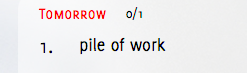
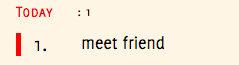
updated tutorial pics and position, fixed caret position for autocomplete

diff --git a/CataList/src/ui/Application/Stylesheets/MainGUI.css b/CataList/src/ui/Application/Stylesheets/MainGUI.css
@@ -130,22 +130,22 @@
 }
 
 #tabPending .tab-label {
-	-fx-font-family: delicious-smallcaps;
+	-fx-font-family: delicious-bold;
 	-fx-text-fill: brown;    
 }
 
 #tabOverdue .tab-label, #tabCompleted .tab-label {
-	-fx-font-family: delicious-smallcaps;
+	-fx-font-family: delicious-bold;
 	-fx-text-fill: grey;    
 }
 
 #tabToday .tab-label, #tabTomorrow .tab-label {
-	-fx-font-family: delicious-smallcaps;
+	-fx-font-family: delicious-bold;
 	-fx-text-fill: red;    
 }
 
 #tabOthers .tab-label, #tabFloat .tab-label {
-	-fx-font-family: delicious-smallcaps;
+	-fx-font-family: delicious-bold;
 	-fx-text-fill: blue;    
 }
 
@@ -281,8 +281,8 @@
 }
 
 #tutorialContainer {
-	-fx-font-size: 18px;
-	-fx-font-family: infinity;
+	-fx-font-size: 17px;
+	-fx-font-family: delicious-roman;
 }
 
 #exitMessage {
@@ -291,6 +291,7 @@
 
 #tutorialSamples {
 	-fx-font-family: Monospaced;
+	-fx-font-size: 14px;
 	-fx-fill: blue;
 }
 

diff --git a/CataList/src/ui/Controllers/AutoCompleteCommands.java b/CataList/src/ui/Controllers/AutoCompleteCommands.java
@@ -55,14 +55,19 @@ public class AutoCompleteCommands {
 	private static void checkCommandMatch(TextField userInput, Text feedback, String autoCompleteCheck) {
 		for(int i = 0; i < autoCompleteList.size(); i++) {
 			if(autoCompleteCheck.equals(autoCompleteList.get(i).substring(START_INDEX, END_INDEX))) {
+				int currentCaretPosition = userInput.getCaretPosition();
 				String splitInput[] = userInput.getText().split(SPACE_REGEX);
 				checkConflictingCommands(userInput, i, splitInput);
 				
 				StringBuilder sb = new StringBuilder();
 				rebuildCorrectedUserInput(splitInput, sb);
 				
-				userInput.setText(sb.toString());
-				userInput.end();
+				userInput.setText(sb.toString().trim());
+				if(splitInput.length == 1) {
+					userInput.end();
+				} else {
+					userInput.positionCaret(currentCaretPosition);
+				}
 				
 				FeedbackGenerator.generateAutoCompleteFeedback(feedback, splitInput[START_INDEX]);
 				break;
@@ -81,10 +86,10 @@ public class AutoCompleteCommands {
 
 	private static void rebuildCorrectedUserInput(String[] splitInput, StringBuilder sb) {
 		for (String string : splitInput) {
+			sb.append(string);
 			if (sb.length() > 0) {
 				sb.append(SPACE_REGEX);
 			}
-			sb.append(string);
 		}
 	}
 

diff --git a/CataList/src/ui/Controllers/TutorialRenderer.java b/CataList/src/ui/Controllers/TutorialRenderer.java
@@ -16,9 +16,9 @@ import javafx.util.Duration;
 
 public class TutorialRenderer {
 	private final int LIST_OFFSET_Y = 125;
-	private final int LIST_OFFSET_X = 100;
+	private final int LIST_OFFSET_X = 0;
 
-	private final int CL_OFFSET_X = 450;
+	private final int CL_OFFSET_X = 540;
 
 	private final String TUTORIAL_1_PATH = "/ui/View/Tutorial1.fxml";
 	private final String TUTORIAL_2_PATH = "/ui/View/Tutorial2.fxml";

diff --git a/CataList/src/ui/Controllers/FeedbackGenerator.java b/CataList/src/ui/Controllers/FeedbackGenerator.java
@@ -31,7 +31,6 @@ public class FeedbackGenerator {
 	}
 
 	public static void generateAutoCompleteFeedback(Text feedback, String command) {
-		System.out.println(String.format(MAIN_FEEDBACK_AUTOCOMPLETE, command));
 		feedback.setText(String.format(MAIN_FEEDBACK_AUTOCOMPLETE, command));
 	}
 
